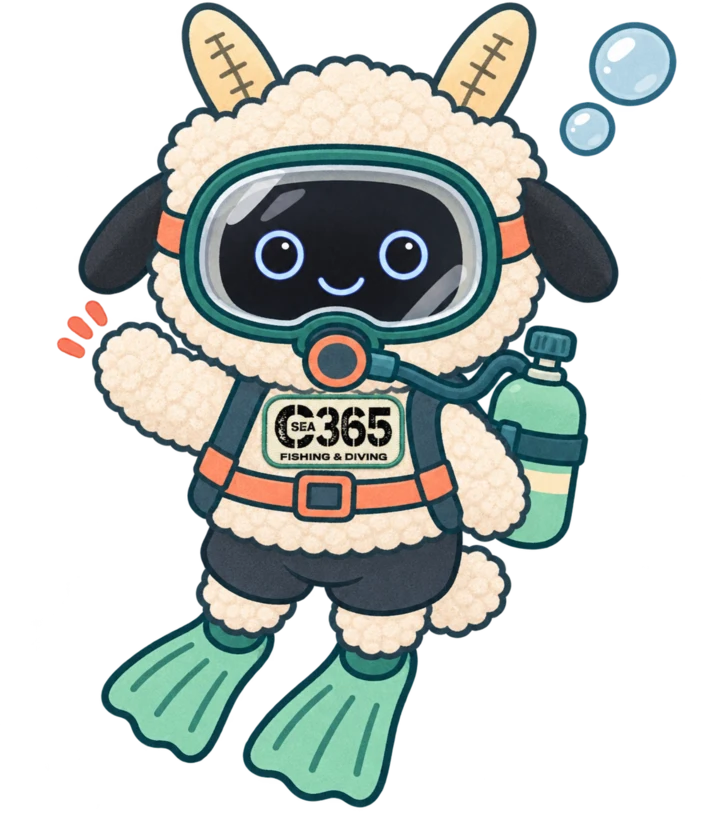
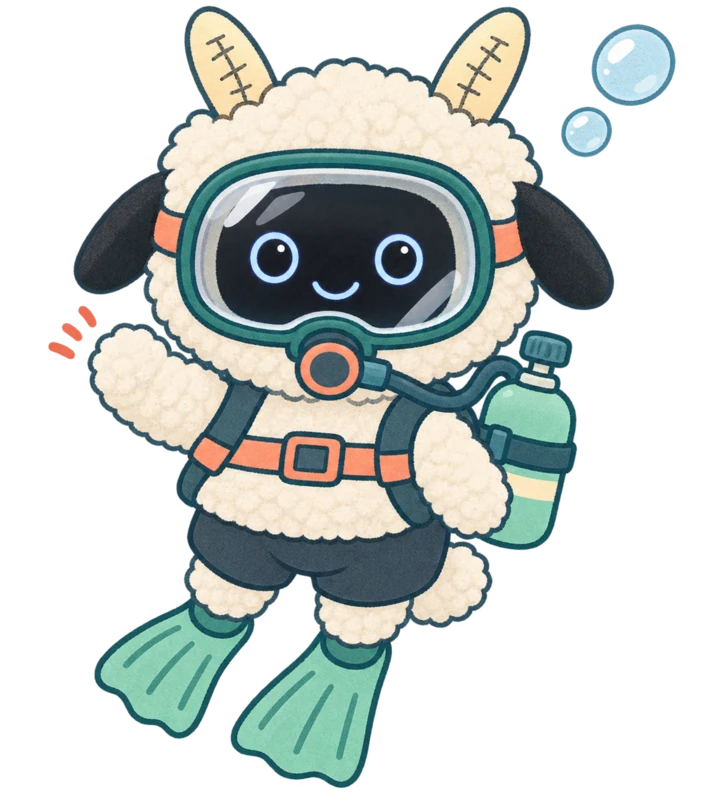
Add Michael’s bilingual character story and restore the classic dive emblem

Changed region(s): [[0.0611, 0.0, 0.9472, 1.0]]

diff --git a/wp-content/themes/dive365/style.css b/wp-content/themes/dive365/style.css
@@ -1,7 +1,7 @@
 /*
 Theme Name: Diving Shop C365
 Description: Bilingual diving shop theme for Diving Shop C365, Yokohama.
-Version: 1.3.0
+Version: 1.4.0
 Requires PHP: 8.1
 Text Domain: dive365
 */
@@ -132,6 +132,7 @@ details p{padding-top:.65rem}
 .access address{font-style:normal}
 .site-footer{background:#e8f5ff;color:var(--ink);padding-block:2rem}
 .site-footer a{margin-right:1rem}
+.footer-brand img{width:3.05rem;height:3.25rem}
 .reading{max-width:66rem}
 .reading h1{font-size:clamp(2rem,5vw,4rem)}
 .reading article{margin-block:1.4rem 2.7rem}
@@ -252,3 +253,23 @@ details p{padding-top:.65rem}
 .overseas-card dd{margin:.25rem 0 0;color:var(--muted)}
 .overseas-credits{margin-top:.75rem;font-size:.86rem}
 @media(max-width:595px){.overseas-grid{grid-template-columns:1fr}}
+
+.hero-michael figcaption a{pointer-events:auto;text-decoration:none}
+.hero-michael figcaption a:hover{text-decoration:underline}
+.michael-banner{background:radial-gradient(ellipse at 75% 44%,#d3efff,transparent 57%),var(--mist)}
+.michael-banner h1{font-family:"Zen Maru Gothic","Hiragino Sans","Yu Gothic",system-ui,sans-serif}
+.michael-subtitle{font-size:clamp(1.22rem,3vw,2.15rem);font-weight:850;color:var(--sea);line-height:1.45;margin-top:.9rem}
+.michael-portrait{position:relative;isolation:isolate;justify-self:center;width:min(100%,24rem);margin:0;padding:1.1rem 1rem}
+.michael-portrait::before{content:"";position:absolute;z-index:-1;inset:12% -3%;border:2px solid #fff;border-radius:50%;background:#dbf1fd;transform:rotate(-10deg)}
+.michael-portrait img{width:100%;height:auto;filter:drop-shadow(0 .5rem .8rem #18405b22)}
+.michael-story-grid{display:grid;grid-template-columns:repeat(3,minmax(0,1fr));gap:1.25rem;padding:0;list-style:none;margin:1.65rem 0 0}
+.michael-story-grid li{padding:clamp(1.15rem,2.5vw,2rem);border:1px solid var(--line);border-radius:var(--radius);background:#f6fbff}
+.michael-story-grid li:nth-child(2){background:#faf7ff}
+.michael-story-grid li:nth-child(3){background:#f3fbfb}
+.michael-story-grid img{width:4.8rem;height:4.8rem;object-fit:contain;margin-bottom:1rem}
+.michael-story-grid p{color:var(--muted);margin-top:.75rem}
+.michael-end{background:var(--mist);padding-block:clamp(2.5rem,6vw,4rem)}
+.michael-end .wrap{display:flex;align-items:center;justify-content:space-between;flex-wrap:wrap;gap:1.2rem}
+.michael-end h2{font-size:clamp(1.85rem,4vw,3rem)}
+.michael-end p{color:var(--muted);margin-top:.65rem}
+@media(max-width:760px){.michael-story-grid{grid-template-columns:1fr}.michael-portrait{width:min(78%,20rem)}}

diff --git a/wp-content/themes/dive365/michael.php b/wp-content/themes/dive365/michael.php
@@ -1,0 +1,58 @@
+<?php
+get_header();
+$english = d365_is_english();
+$home = d365_home($english);
+$story = [
+    ['calendar', '「やってみたい」が出発点', 'It started with “I want to try”',
+        '新しいことを見つけると、じっとしていられないマイケル君。ある日、水面がきらきら光るのを眺めて、「この青い水の下には何があるんだろう？」。次の日には、ダイビングのことを聞きに出かけました。',
+        'When Michael discovers something new, he can hardly sit still. One day, watching the sunlight sparkle on the ocean, he wondered what was beneath all that blue. The very next day he went to ask about diving.'],
+    ['mask', 'ドキドキしながら、ひと呼吸', 'A little nervous, one breath at a time',
+        '初めての器材に、ちょっぴり緊張。インストラクターと陸の上で使い方を練習してから、ゆっくり海へ。水の中で初めて呼吸ができたときは、まだ海の入口なのに、もう大冒険をしたみたいでした。',
+        'The unfamiliar gear made him a little nervous. He practiced on land with an instructor, then took his time getting into the water. That first breath underwater felt like an adventure all by itself.'],
+    ['fish', '次は、どんな海かな？', 'Where to next?',
+        '吐いた息が泡になって水面へ。目の前を小さな魚がすっと横切って、見上げると光がゆらゆら。海から上がるころには、「次はどんな魚に会えるかな？」と、もう次のチャレンジを考えていました。',
+        'His bubbles rose to the surface, a little fish darted by, and sunlight rippled above him. By the time he got out, he was already wondering what he might see on his next dive.'],
+];
+?>
+<main id="main" class="michael-page">
+    <section class="tour-banner michael-banner">
+        <div class="wrap tour-banner-inner">
+            <div>
+                <p class="tour-kicker"><?php d365_label('Diving Shop C365のキャラクター', 'The Diving Shop C365 mascot'); ?></p>
+                <h1><?php d365_label('マイケル君', 'Meet Michael'); ?></h1>
+                <p class="michael-subtitle"><?php d365_label('ふわふわにあこがれて。', 'Dreaming of being fluffy.'); ?><br><?php d365_label('今日も、新しいことに挑戦。', 'Always ready to try something new.'); ?></p>
+                <p class="tour-intro"><?php d365_label('カシミヤヤギのやわらかい毛並みにあこがれるヤギ。新しいことにチャレンジするのが大好きで、今度はスキューバダイビングを始めました。', 'Michael is a goat who wishes he were as fluffy as a cashmere goat. He loves a new challenge, and his latest adventure is learning to scuba dive.'); ?></p>
+                <div class="tour-actions">
+                    <a class="button" href="#michael-story"><?php d365_label('初めての海のお話', 'Read about his first dive'); ?> <span aria-hidden="true">↓</span></a>
+                </div>
+            </div>
+            <figure class="michael-portrait">
+                <img src="<?= esc_url(d365_asset('michael-diver.webp')) ?>" alt="<?= esc_attr(d365_text('ダイビング姿で手を振るマイケル君', 'Michael waves in his scuba gear')) ?>" width="720" height="807" fetchpriority="high">
+            </figure>
+        </div>
+    </section>
+    <section id="michael-story" class="section michael-story">
+        <div class="wrap">
+            <h2><?php d365_label('マイケル君、初めての海へ', 'Michael’s first dive'); ?></h2>
+            <ol class="michael-story-grid">
+                <?php foreach ($story as [$illustration, $ja, $en, $ja_body, $en_body]): ?>
+                    <li>
+                        <img src="<?= esc_url(d365_asset('first-dive-' . $illustration . '.webp')) ?>" alt="" width="112" height="112" loading="lazy">
+                        <h3><?= esc_html(d365_text($ja, $en)) ?></h3>
+                        <p><?= esc_html(d365_text($ja_body, $en_body)) ?></p>
+                    </li>
+                <?php endforeach; ?>
+            </ol>
+        </div>
+    </section>
+    <section class="michael-end">
+        <div class="wrap">
+            <div>
+                <h2><?php d365_label('あなたも、初めての海へ', 'Ready for your first dive?'); ?></h2>
+                <p><?php d365_label('マイケル君のように「やってみたい」と思ったら、体験ダイビングの流れをのぞいてみてください。', 'If Michael’s story makes you want to try, see how your first dive works.'); ?></p>
+            </div>
+            <a class="button" href="<?= esc_url($home . '#first-dive') ?>"><?php d365_label('初めての方へ', 'Your first dive'); ?> <span aria-hidden="true">↗</span></a>
+        </div>
+    </section>
+</main>
+<?php get_footer(); ?>

diff --git a/wp-content/plugins/dive365-shop/dive365-shop.php b/wp-content/plugins/dive365-shop/dive365-shop.php
@@ -2,7 +2,7 @@
 /**
  * Plugin Name: Dive 365 Shop
  * Description: Bilingual dive calendar, booking requests, and legacy post type support for Dive 365.
- * Version: 1.2.0
+ * Version: 1.3.0
  * Requires PHP: 8.1
  */
 
@@ -27,6 +27,8 @@ function d365_home(bool $english, array $args = []): string {
 }
 
 function d365_register(): void {
+    add_rewrite_rule('^en/michael/?$', 'index.php?d365_lang=en&d365_michael=1', 'top');
+    add_rewrite_rule('^michael/?$', 'index.php?d365_michael=1', 'top');
     add_rewrite_rule('^en/discover-scuba/?$', 'index.php?d365_lang=en&d365_experience=trial', 'top');
     add_rewrite_rule('^en/dive-trips/overseas/?$', 'index.php?d365_lang=en&d365_experience=overseas', 'top');
     add_rewrite_rule('^dive-trips/overseas/?$', 'index.php?d365_experience=overseas', 'top');
@@ -73,22 +75,23 @@ function d365_register(): void {
 }
 add_action('init', 'd365_register', 20);
 function d365_refresh_rewrite_rules(): void {
-    if (get_option('d365_rewrite_version') !== '3') {
+    if (get_option('d365_rewrite_version') !== '4') {
         flush_rewrite_rules(false);
-        update_option('d365_rewrite_version', '3');
+        update_option('d365_rewrite_version', '4');
     }
 }
 add_action('wp_loaded', 'd365_refresh_rewrite_rules');
 register_activation_hook(__FILE__, static function (): void {
     d365_register();
     flush_rewrite_rules(false);
-    update_option('d365_rewrite_version', '3');
+    update_option('d365_rewrite_version', '4');
 });
 add_filter('query_vars', static function (array $vars): array {
     $vars[] = 'd365_lang';
     $vars[] = 'd365_courses';
     $vars[] = 'd365_experience';
     $vars[] = 'd365_tour_area';
+    $vars[] = 'd365_michael';
     return $vars;
 });
 add_filter('request', static function (array $vars): array {
@@ -98,7 +101,7 @@ add_filter('request', static function (array $vars): array {
     return $vars;
 });
 add_filter('redirect_canonical', static function ($redirect) {
-    return ((d365_is_english() && is_front_page()) || get_query_var('d365_courses') === '1' || in_array(get_query_var('d365_experience'), ['trial', 'tour', 'overseas'], true)) ? false : $redirect;
+    return ((d365_is_english() && is_front_page()) || get_query_var('d365_courses') === '1' || get_query_var('d365_michael') === '1' || in_array(get_query_var('d365_experience'), ['trial', 'tour', 'overseas'], true)) ? false : $redirect;
 });
 
 function d365_now(): DateTimeImmutable {

diff --git a/wp-content/themes/dive365/functions.php b/wp-content/themes/dive365/functions.php
@@ -113,7 +113,21 @@ add_filter('d365_booking_notes_default', static function (string $notes): string
     return $notes;
 });
 
+function d365_is_michael(): bool {
+    return get_query_var('d365_michael') === '1';
+}
+
+function d365_michael_url(bool $english): string {
+    if (get_option('permalink_structure')) {
+        return home_url(($english ? '/en' : '') . '/michael/');
+    }
+    return add_query_arg('d365_michael', '1', d365_home($english));
+}
+
 function d365_landing_url(bool $english): string {
+    if (d365_is_michael()) {
+        return d365_michael_url($english);
+    }
     if ($area = d365_tour_area()) {
         return d365_tour_area_url($area, $english);
     }
@@ -125,6 +139,9 @@ function d365_landing_url(bool $english): string {
 }
 
 add_filter('template_include', static function (string $template): string {
+    if (d365_is_michael()) {
+        return get_theme_file_path('michael.php');
+    }
     if (d365_is_courses()) {
         return get_theme_file_path('courses.php');
     }
@@ -153,6 +170,9 @@ add_filter('language_attributes', static function (string $attributes): string {
     return d365_is_english() ? 'lang="en"' : 'lang="ja"';
 });
 add_filter('pre_get_document_title', static function (string $title): string {
+    if (d365_is_michael()) {
+        return d365_text('マイケル君の紹介｜Diving Shop C365', 'Meet Michael | Diving Shop C365');
+    }
     if (d365_is_courses()) {
         return d365_text('PADI講習・スキルアップ｜Diving Shop C365', 'PADI Courses & Skills | Diving Shop C365');
     }
@@ -171,7 +191,7 @@ add_filter('pre_get_document_title', static function (string $title): string {
     return is_front_page() ? d365_text('Diving Shop C365｜横浜のダイビングショップ', 'Diving Shop C365 | Scuba Diving in Yokohama') : $title;
 });
 add_action('wp_head', static function (): void {
-    if ((is_front_page() || d365_is_courses() || d365_experience()) && function_exists('d365_show_booking')) {
+    if ((is_front_page() || d365_is_michael() || d365_is_courses() || d365_experience()) && function_exists('d365_show_booking')) {
         foreach (['ja' => d365_landing_url(false), 'en' => d365_landing_url(true), 'x-default' => d365_landing_url(false)] as $lang => $url) {
             printf('<link rel="alternate" hreflang="%s" href="%s">' . "\n", esc_attr($lang), esc_url($url));
         }

diff --git a/wp-content/themes/dive365/seo.php b/wp-content/themes/dive365/seo.php
@@ -2,13 +2,13 @@
 defined('ABSPATH') || exit;
 
 add_action('wp', static function (): void {
-    if (is_front_page() || d365_is_courses() || d365_experience()) {
+    if (is_front_page() || d365_is_michael() || d365_is_courses() || d365_experience()) {
         remove_action('wp_head', 'rel_canonical');
     }
 });
 
 add_action('wp_head', static function (): void {
-    if (!is_front_page() && !d365_is_courses() && !d365_experience()) {
+    if (!is_front_page() && !d365_is_michael() && !d365_is_courses() && !d365_experience()) {
         return;
     }
 
@@ -30,9 +30,15 @@ add_action('wp_head', static function (): void {
     if ($area) {
         $description = d365_text(...$area['description']);
     }
+    if (d365_is_michael()) {
+        $description = d365_text('Diving Shop C365のキャラクター、マイケル君。カシミヤヤギにあこがれる、チャレンジが大好きなヤギの初めてのスキューバダイビングのお話。', 'Meet Michael, the Diving Shop C365 mascot. He’s a curious goat who looks up to cashmere goats and takes on a new challenge: his first scuba dive.');
+    }
     $url = d365_landing_url($english);
     $images = ['trial' => 'trial.jpg', 'tour' => 'tour.jpg', 'overseas' => 'overseas-palau.webp'];
     $image = d365_asset($area['photo'] ?? ($images[$experience] ?? ($course ? 'course.jpg' : 'hero.jpg')));
+    if (d365_is_michael()) {
+        $image = d365_asset('michael-diver.webp');
+    }
     $schema = [
         '@context' => 'https://schema.org',
         '@type' => 'SportsActivityLocation',
@@ -98,6 +104,8 @@ add_action('init', static function (): void {
                     $urls[] = d365_experience_url($type, false);
                 }
             }
+            $urls[] = d365_michael_url(false);
+            $urls[] = d365_michael_url(true);
             $urls[] = d365_experience_url('overseas', false);
             $urls[] = d365_experience_url('overseas', true);
             foreach (array_keys(d365_tour_destinations()) as $area) {

diff --git a/wp-content/themes/dive365/front-page.php b/wp-content/themes/dive365/front-page.php
@@ -43,8 +43,14 @@ $news = get_posts(['post_type' => 'news', 'numberposts' => 4]);
                     <button type="button" hidden class="motion-toggle" data-play="<?= esc_attr(d365_text('動画を再生', 'Play video')) ?>" data-pause="<?= esc_attr(d365_text('動画を停止', 'Pause video')) ?>" aria-label="<?= esc_attr(d365_text('動画を再生', 'Play video')) ?>">▶</button>
                 </div>
                 <figure class="hero-michael">
-                    <img src="<?= esc_url(d365_asset('michael-diver.webp')) ?>" alt="<?= esc_attr(d365_text('C365ロゴのワッペンを胸につけたダイビング姿のマイケル', 'Michael in scuba gear with a C365 patch on his chest')); ?>" width="720" height="813" decoding="async">
-                    <figcaption><?php d365_label('案内役のマイケル', 'Meet Michael'); ?></figcaption>
+                    <img src="<?= esc_url(d365_asset('michael-diver.webp')) ?>" alt="<?= esc_attr(d365_text('ダイビング姿で手を振るマイケル君', 'Michael waves in his scuba gear')); ?>" width="720" height="807" decoding="async">
+                    <figcaption>
+                        <?php if (function_exists('d365_show_booking')): ?>
+                            <a href="<?= esc_url(d365_michael_url(d365_is_english())) ?>"><?php d365_label('マイケル君の紹介', 'Meet Michael'); ?> <span aria-hidden="true">↗</span></a>
+                        <?php else: ?>
+                            <?php d365_label('マイケル君', 'Michael'); ?>
+                        <?php endif; ?>
+                    </figcaption>
                 </figure>
             </div>
         </div>

diff --git a/wp-content/themes/dive365/footer.php b/wp-content/themes/dive365/footer.php
@@ -1,7 +1,12 @@
 <footer class="site-footer">
     <div class="wrap footer-wrap">
-        <a class="wordmark" href="<?= esc_url(d365_home(d365_is_english())) ?>">Diving Shop <strong>C365</strong></a>
-        <div><a href="https://www.instagram.com/c365_marine/">Instagram ↗</a>
+        <a class="wordmark footer-brand" href="<?= esc_url(d365_home(d365_is_english())) ?>">
+            <img src="<?= esc_url(d365_asset('c365-deep-diving.webp')) ?>" alt="" width="50" height="53" loading="lazy">
+            <span>Diving Shop <strong>C365</strong></span>
+        </a>
+        <div>
+            <?php if (function_exists('d365_show_booking')): ?><a href="<?= esc_url(d365_michael_url(d365_is_english())) ?>"><?php d365_label('マイケル君', 'Meet Michael'); ?></a><?php endif; ?>
+            <a href="https://www.instagram.com/c365_marine/">Instagram ↗</a>
             <?php if (get_privacy_policy_url()): ?><a href="<?= esc_url(get_privacy_policy_url()) ?>"><?php d365_label('プライバシーポリシー', 'Privacy policy'); ?></a><?php endif; ?>
         </div>
         <small>© <?= esc_html(wp_date('Y')) ?> Diving Shop C365</small>

diff --git a/README.md b/README.md
@@ -59,5 +59,5 @@ docker compose exec -T --user www-data wordpress php /tmp/wp-cli.phar --path=/va
 
 ### ブランドとイラスト
 
-- 公開サイトと検索メタデータの店名は `Diving Shop C365` です。ロゴを胸につけたマイケルと初めての方向けの3ステップをトップに掲載しています。
+- 公開サイトと検索メタデータの店名は `Diving Shop C365` です。本番に既存のDBを復元した際は、WordPressの「設定 → 一般」でサイトのタイトルも揃えてください。マイケル君と初めての方向けの3ステップをトップに掲載しています。キャラクター紹介は日英の `/michael/` と `/en/michael/` にあります。既存の縦型ロゴはヘッダー、マスクとフィンのロゴはフッターに使っています。
 - マイケルと各イラストはテーマの `assets/` にWebPで保存しています。見出しの一部は自己ホストの Zen Maru Gothic を使用しています。フォントのライセンスは同じディレクトリにあります。
